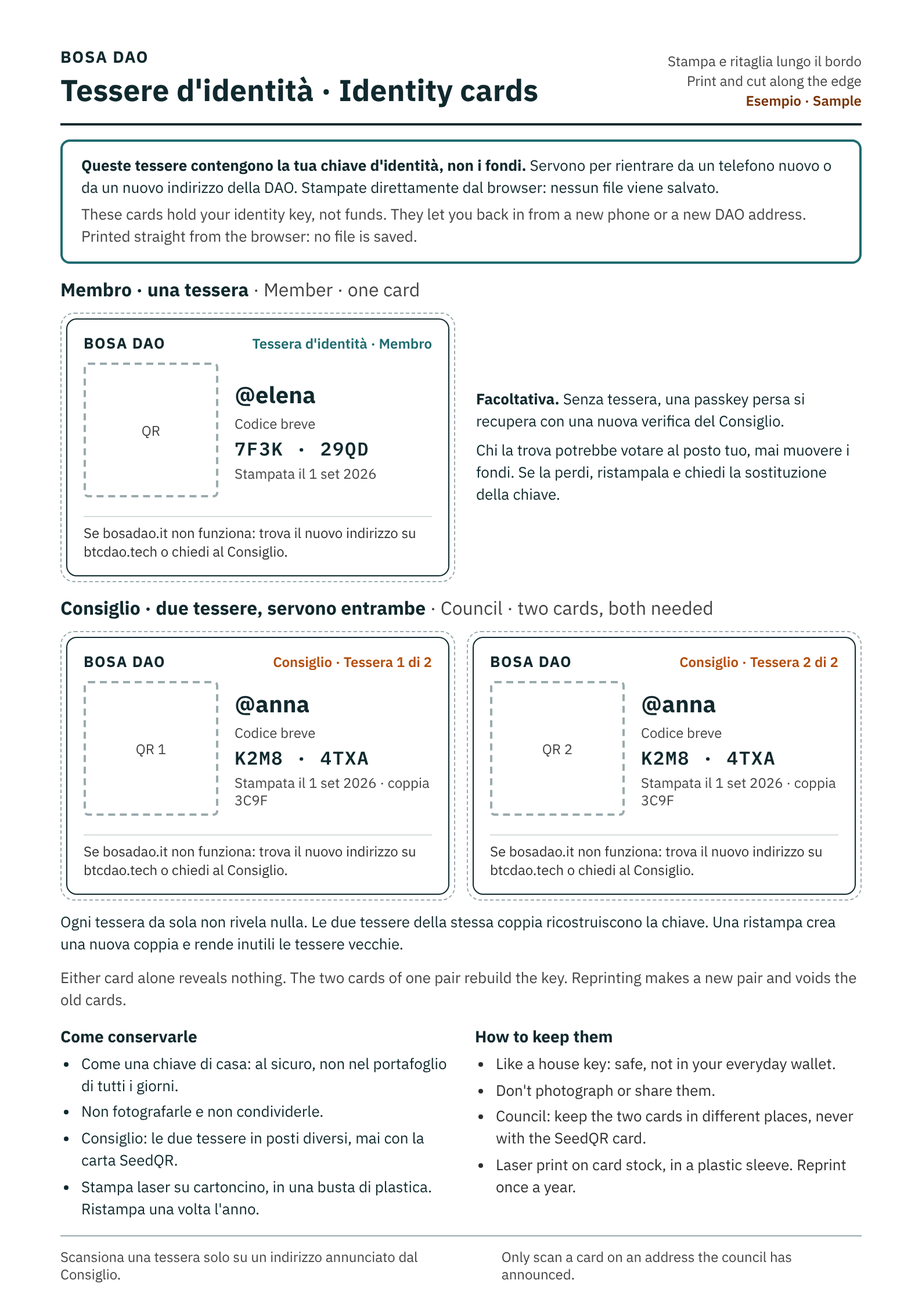
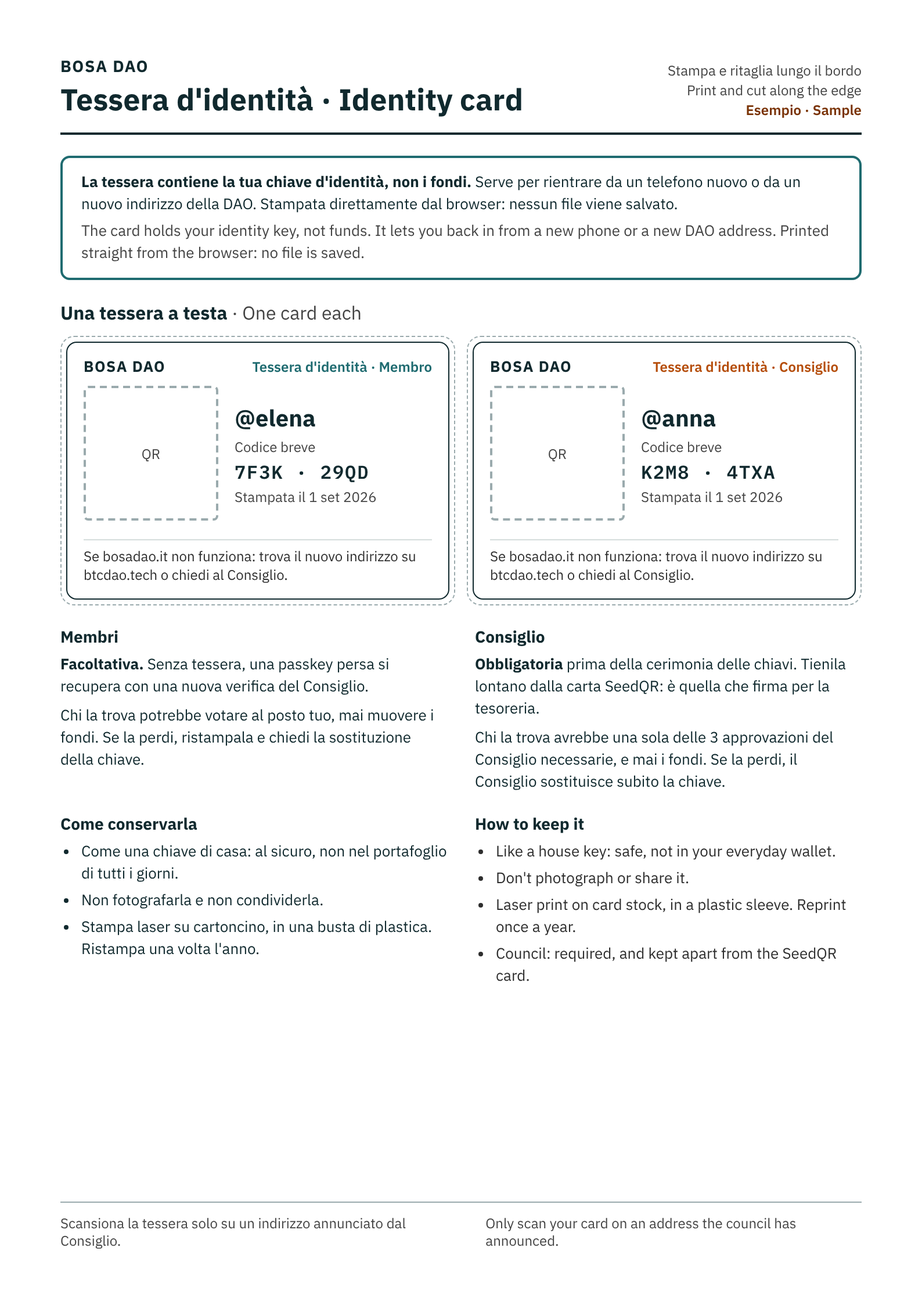
One identity card for everyone
Council members get the same single card as members, required before
the key ceremony and kept apart from the SeedQR card. The split
two-card scheme is dropped: one council identity key is only one of
the 3 approvals any change needs.

Claude-Session: https://claude.ai/code/session_01C94yzD6rPMBLcAmStF3yLe

diff --git a/design/mockups/IdentityCards.dc.html b/design/mockups/IdentityCards.dc.html
@@ -15,12 +15,12 @@ body{margin:0;background:#FFFFFF}
 a{color:#1F6B70}a:hover{color:#10292E}
 </style>
 </helmet>
-<div style="width: 794px; height: 1123px; box-sizing: border-box; padding: 40px 52px; background: #FFFFFF; font-family: 'IBM Plex Sans', system-ui, sans-serif; color: #10292E; display: flex; flex-direction: column; gap: 12px">
+<div style="width: 794px; height: 1123px; box-sizing: border-box; padding: 48px 52px; background: #FFFFFF; font-family: 'IBM Plex Sans', system-ui, sans-serif; color: #10292E; display: flex; flex-direction: column; gap: 18px">
 
 <div style="display: flex; justify-content: space-between; align-items: flex-end; gap: 24px; border-bottom: 2px solid #10292E; padding-bottom: 12px">
 <div style="display: flex; flex-direction: column; gap: 2px">
 <span style="font-size: 14px; font-weight: 700; letter-spacing: 0.06em">BOSA DAO</span>
-<h1 style="margin: 0; font-size: 26px; font-weight: 700">Tessere d'identità · Identity cards</h1>
+<h1 style="margin: 0; font-size: 26px; font-weight: 700">Tessera d'identità · Identity card</h1>
 </div>
 <div style="display: flex; flex-direction: column; align-items: flex-end; gap: 2px; font-size: 12px; color: #444444">
 <span>Stampa e ritaglia lungo il bordo</span>
@@ -30,14 +30,13 @@ a{color:#1F6B70}a:hover{color:#10292E}
 </div>
 
 <div style="border: 2px solid #1F6B70; border-radius: 8px; padding: 12px 16px; display: flex; flex-direction: column; gap: 4px; font-size: 13px; line-height: 1.45">
-<span><strong>Queste tessere contengono la tua chiave d'identità, non i fondi.</strong> Servono per rientrare da un telefono nuovo o da un nuovo indirizzo della DAO. Stampate direttamente dal browser: nessun file viene salvato.</span>
-<span style="color: #444444">These cards hold your identity key, not funds. They let you back in from a new phone or a new DAO address. Printed straight from the browser: no file is saved.</span>
+<span><strong>La tessera contiene la tua chiave d'identità, non i fondi.</strong> Serve per rientrare da un telefono nuovo o da un nuovo indirizzo della DAO. Stampata direttamente dal browser: nessun file viene salvato.</span>
+<span style="color: #444444">The card holds your identity key, not funds. It lets you back in from a new phone or a new DAO address. Printed straight from the browser: no file is saved.</span>
 </div>
 
-<section aria-labelledby="membro" style="display: flex; flex-direction: column; gap: 10px">
-<h2 id="membro" style="margin: 0; font-size: 16px; font-weight: 700">Membro · una tessera <span style="font-weight: 400; color: #444444">· Member · one card</span></h2>
-<div style="display: flex; gap: 10px; align-items: stretch">
-
+<section aria-labelledby="esempi" style="display: flex; flex-direction: column; gap: 10px">
+<h2 id="esempi" style="margin: 0; font-size: 16px; font-weight: 700">Una tessera a testa <span style="font-weight: 400; color: #444444">· One card each</span></h2>
+<div style="display: flex; gap: 10px">
 <div style="width: 340px; height: 232px; box-sizing: border-box; border: 1.5px dashed #9AAAAD; border-radius: 12px; padding: 4px; flex-shrink: 0">
 <div style="height: 100%; box-sizing: border-box; border: 1.5px solid #10292E; border-radius: 9px; padding: 12px 14px; display: flex; flex-direction: column; gap: 8px">
 <div style="display: flex; justify-content: space-between; align-items: baseline; gap: 8px">
@@ -45,7 +44,7 @@ a{color:#1F6B70}a:hover{color:#10292E}
 <span style="font-size: 12px; font-weight: 600; color: #1F6B70">Tessera d'identità · Membro</span>
 </div>
 <div style="display: flex; gap: 14px; align-items: center">
-<div role="img" aria-label="Codice QR della chiave d'identità (segnaposto)" style="width: 112px; height: 112px; flex-shrink: 0; border: 2px dashed #9AAAAD; border-radius: 4px; display: flex; align-items: center; justify-content: center; font-size: 12px; color: #444444">QR</div>
+<div role="img" aria-label="Codice QR della chiave d'identità di un membro (segnaposto)" style="width: 112px; height: 112px; flex-shrink: 0; border: 2px dashed #9AAAAD; border-radius: 4px; display: flex; align-items: center; justify-content: center; font-size: 12px; color: #444444">QR</div>
 <div style="display: flex; flex-direction: column; gap: 4px; min-width: 0">
 <span style="font-size: 20px; font-weight: 700">@elena</span>
 <span style="font-size: 12px; color: #444444">Codice breve</span>
@@ -56,86 +55,63 @@ a{color:#1F6B70}a:hover{color:#10292E}
 <span style="margin-top: auto; border-top: 1px solid #D5DDDC; padding-top: 6px; font-size: 12px; line-height: 1.35; color: #2E2E2E">Se bosadao.it non funziona: trova il nuovo indirizzo su btcdao.tech o chiedi al Consiglio.</span>
 </div>
 </div>
-
-<div style="flex: 1; display: flex; flex-direction: column; justify-content: center; gap: 6px; padding: 0 8px; font-size: 13px; line-height: 1.45">
-<span><strong>Facoltativa.</strong> Senza tessera, una passkey persa si recupera con una nuova verifica del Consiglio.</span>
-<span>Chi la trova potrebbe votare al posto tuo, mai muovere i fondi. Se la perdi, ristampala e chiedi la sostituzione della chiave.</span>
-</div>
-
-</div>
-</section>
-
-<section aria-labelledby="consiglio" style="display: flex; flex-direction: column; gap: 10px">
-<h2 id="consiglio" style="margin: 0; font-size: 16px; font-weight: 700">Consiglio · due tessere, servono entrambe <span style="font-weight: 400; color: #444444">· Council · two cards, both needed</span></h2>
-<div style="display: flex; gap: 10px">
-
 <div style="width: 340px; height: 232px; box-sizing: border-box; border: 1.5px dashed #9AAAAD; border-radius: 12px; padding: 4px; flex-shrink: 0">
 <div style="height: 100%; box-sizing: border-box; border: 1.5px solid #10292E; border-radius: 9px; padding: 12px 14px; display: flex; flex-direction: column; gap: 8px">
 <div style="display: flex; justify-content: space-between; align-items: baseline; gap: 8px">
 <span style="font-size: 13px; font-weight: 700; letter-spacing: 0.06em">BOSA DAO</span>
-<span style="font-size: 12px; font-weight: 600; color: #B54D0A">Consiglio · Tessera 1 di 2</span>
+<span style="font-size: 12px; font-weight: 600; color: #B54D0A">Tessera d'identità · Consiglio</span>
 </div>
 <div style="display: flex; gap: 14px; align-items: center">
-<div role="img" aria-label="Codice QR, prima metà della chiave (segnaposto)" style="width: 112px; height: 112px; flex-shrink: 0; border: 2px dashed #9AAAAD; border-radius: 4px; display: flex; align-items: center; justify-content: center; font-size: 12px; color: #444444">QR 1</div>
+<div role="img" aria-label="Codice QR della chiave d'identità di un membro del Consiglio (segnaposto)" style="width: 112px; height: 112px; flex-shrink: 0; border: 2px dashed #9AAAAD; border-radius: 4px; display: flex; align-items: center; justify-content: center; font-size: 12px; color: #444444">QR</div>
 <div style="display: flex; flex-direction: column; gap: 4px; min-width: 0">
 <span style="font-size: 20px; font-weight: 700">@anna</span>
 <span style="font-size: 12px; color: #444444">Codice breve</span>
 <span style="font-family: 'IBM Plex Mono', monospace; font-size: 16px; font-weight: 600; letter-spacing: 0.06em">K2M8 · 4TXA</span>
-<span style="font-size: 12px; color: #444444">Stampata il 1 set 2026 · coppia 3C9F</span>
+<span style="font-size: 12px; color: #444444">Stampata il 1 set 2026</span>
 </div>
 </div>
 <span style="margin-top: auto; border-top: 1px solid #D5DDDC; padding-top: 6px; font-size: 12px; line-height: 1.35; color: #2E2E2E">Se bosadao.it non funziona: trova il nuovo indirizzo su btcdao.tech o chiedi al Consiglio.</span>
 </div>
 </div>
-
-<div style="width: 340px; height: 232px; box-sizing: border-box; border: 1.5px dashed #9AAAAD; border-radius: 12px; padding: 4px; flex-shrink: 0">
-<div style="height: 100%; box-sizing: border-box; border: 1.5px solid #10292E; border-radius: 9px; padding: 12px 14px; display: flex; flex-direction: column; gap: 8px">
-<div style="display: flex; justify-content: space-between; align-items: baseline; gap: 8px">
-<span style="font-size: 13px; font-weight: 700; letter-spacing: 0.06em">BOSA DAO</span>
-<span style="font-size: 12px; font-weight: 600; color: #B54D0A">Consiglio · Tessera 2 di 2</span>
 </div>
-<div style="display: flex; gap: 14px; align-items: center">
-<div role="img" aria-label="Codice QR, seconda metà della chiave (segnaposto)" style="width: 112px; height: 112px; flex-shrink: 0; border: 2px dashed #9AAAAD; border-radius: 4px; display: flex; align-items: center; justify-content: center; font-size: 12px; color: #444444">QR 2</div>
-<div style="display: flex; flex-direction: column; gap: 4px; min-width: 0">
-<span style="font-size: 20px; font-weight: 700">@anna</span>
-<span style="font-size: 12px; color: #444444">Codice breve</span>
-<span style="font-family: 'IBM Plex Mono', monospace; font-size: 16px; font-weight: 600; letter-spacing: 0.06em">K2M8 · 4TXA</span>
-<span style="font-size: 12px; color: #444444">Stampata il 1 set 2026 · coppia 3C9F</span>
-</div>
-</div>
-<span style="margin-top: auto; border-top: 1px solid #D5DDDC; padding-top: 6px; font-size: 12px; line-height: 1.35; color: #2E2E2E">Se bosadao.it non funziona: trova il nuovo indirizzo su btcdao.tech o chiedi al Consiglio.</span>
-</div>
-</div>
-
-</div>
-<span style="font-size: 13px; line-height: 1.45">Ogni tessera da sola non rivela nulla. Le due tessere della stessa coppia ricostruiscono la chiave. Una ristampa crea una nuova coppia e rende inutili le tessere vecchie.</span>
-<span style="font-size: 13px; line-height: 1.45; color: #444444">Either card alone reveals nothing. The two cards of one pair rebuild the key. Reprinting makes a new pair and voids the old cards.</span>
 </section>
 
 <div style="display: grid; grid-template-columns: repeat(2, minmax(0, 1fr)); gap: 24px">
 <div style="display: flex; flex-direction: column; gap: 6px">
-<span style="font-size: 14px; font-weight: 700">Come conservarle</span>
+<span style="font-size: 14px; font-weight: 700">Membri</span>
+<span style="font-size: 13px; line-height: 1.45"><strong>Facoltativa.</strong> Senza tessera, una passkey persa si recupera con una nuova verifica del Consiglio.</span>
+<span style="font-size: 13px; line-height: 1.45">Chi la trova potrebbe votare al posto tuo, mai muovere i fondi. Se la perdi, ristampala e chiedi la sostituzione della chiave.</span>
+</div>
+<div style="display: flex; flex-direction: column; gap: 6px">
+<span style="font-size: 14px; font-weight: 700">Consiglio</span>
+<span style="font-size: 13px; line-height: 1.45"><strong>Obbligatoria</strong> prima della cerimonia delle chiavi. Tienila lontano dalla carta SeedQR: è quella che firma per la tesoreria.</span>
+<span style="font-size: 13px; line-height: 1.45">Chi la trova avrebbe una sola delle 3 approvazioni del Consiglio necessarie, e mai i fondi. Se la perdi, il Consiglio sostituisce subito la chiave.</span>
+</div>
+</div>
+
+<div style="display: grid; grid-template-columns: repeat(2, minmax(0, 1fr)); gap: 24px">
+<div style="display: flex; flex-direction: column; gap: 6px">
+<span style="font-size: 14px; font-weight: 700">Come conservarla</span>
 <ul style="margin: 0; padding-left: 18px; display: flex; flex-direction: column; gap: 4px; font-size: 13px; line-height: 1.45">
 <li>Come una chiave di casa: al sicuro, non nel portafoglio di tutti i giorni.</li>
-<li>Non fotografarle e non condividerle.</li>
-<li>Consiglio: le due tessere in posti diversi, mai con la carta SeedQR.</li>
+<li>Non fotografarla e non condividerla.</li>
 <li>Stampa laser su cartoncino, in una busta di plastica. Ristampa una volta l'anno.</li>
 </ul>
 </div>
 <div style="display: flex; flex-direction: column; gap: 6px">
-<span style="font-size: 14px; font-weight: 700">How to keep them</span>
+<span style="font-size: 14px; font-weight: 700">How to keep it</span>
 <ul style="margin: 0; padding-left: 18px; display: flex; flex-direction: column; gap: 4px; font-size: 13px; line-height: 1.45; color: #2E2E2E">
 <li>Like a house key: safe, not in your everyday wallet.</li>
-<li>Don't photograph or share them.</li>
-<li>Council: keep the two cards in different places, never with the SeedQR card.</li>
+<li>Don't photograph or share it.</li>
 <li>Laser print on card stock, in a plastic sleeve. Reprint once a year.</li>
+<li>Council: required, and kept apart from the SeedQR card.</li>
 </ul>
 </div>
 </div>
 
 <div style="margin-top: auto; border-top: 1px solid #9AAAAD; padding-top: 10px; display: flex; justify-content: space-between; gap: 24px; font-size: 12px; color: #444444">
-<span>Scansiona una tessera solo su un indirizzo annunciato dal Consiglio.</span>
-<span>Only scan a card on an address the council has announced.</span>
+<span>Scansiona la tessera solo su un indirizzo annunciato dal Consiglio.</span>
+<span>Only scan your card on an address the council has announced.</span>
 </div>
 
 </div>

diff --git a/design/mockups/Restore.dc.html b/design/mockups/Restore.dc.html
@@ -39,11 +39,6 @@ a{color:#1F6B70}a:hover{color:#10292E}
 
 <div style="background: #FCEBDD; border-radius: 12px; padding: 14px 16px; font-size: 14px; line-height: 1.5; color: #7A3306"><strong>Scansiona la tessera solo su un indirizzo annunciato dal Consiglio.</strong> Nel dubbio, controlla su btcdao.tech o chiedi a un membro del Consiglio.</div>
 
-<label style="min-height: 44px; display: flex; align-items: center; gap: 10px; font-size: 15px; line-height: 1.4">
-<input type="checkbox" checked="{{council}}" onChange="{{toggleCouncil}}" style="width: 22px; height: 22px; flex-shrink: 0; accent-color: #1F6B70">
-Faccio parte del Consiglio: ho due tessere
-</label>
-
 <button type="button" onClick="{{goScan}}" style="min-height: 52px; background: #B54D0A; color: #FFFFFF; border: 0; border-radius: 8px; font-family: inherit; font-size: 16px; font-weight: 600">Scansiona la tessera</button>
 <span style="font-size: 13px; line-height: 1.5; color: #4A5D61">Senza tessera? Vieni a un incontro: un membro del Consiglio verifica che sei tu e sostituisce la chiave.</span>
 </div>
@@ -51,17 +46,11 @@ Faccio parte del Consiglio: ho due tessere
 
 <sc-if value="{{isScan}}" hint-placeholder-val="{{ false }}">
 <div style="display: flex; flex-direction: column; gap: 16px; align-items: center">
-<sc-if value="{{council}}" hint-placeholder-val="{{ false }}">
-<span style="align-self: stretch; font-size: 13px; color: #4A5D61">Tessera {{cardNum}} di 2</span>
-</sc-if>
-<h1 style="margin: 0; align-self: stretch; font-size: 24px; font-weight: 700">{{scanTitle}}</h1>
+<h1 style="margin: 0; align-self: stretch; font-size: 24px; font-weight: 700">Inquadra la tessera</h1>
 <div role="img" aria-label="Anteprima della fotocamera con la cornice per la tessera (segnaposto)" style="width: 300px; height: 300px; background: #10292E; border-radius: 12px; display: flex; align-items: center; justify-content: center">
 <div style="width: 180px; height: 180px; border: 3px solid #FFFFFF; border-radius: 8px; display: flex; align-items: center; justify-content: center; text-align: center; font-size: 13px; color: #C5D3D4">Inquadra qui<br>il codice QR</div>
 </div>
 <span style="align-self: stretch; font-size: 14px; line-height: 1.5; color: #2E4448">Tieni la tessera ferma e ben illuminata. Nessuna foto viene salvata.</span>
-<sc-if value="{{showSecondNote}}" hint-placeholder-val="{{ false }}">
-<div style="align-self: stretch; background: #E3F0F0; border-radius: 12px; padding: 12px 14px; font-size: 14px; line-height: 1.5; color: #1F4F53">Tessera 1 di 2 letta ✓ Da sola non rivela nulla: ora serve la seconda.</div>
-</sc-if>
 <button type="button" onClick="{{scanned}}" style="align-self: stretch; min-height: 52px; background: #B54D0A; color: #FFFFFF; border: 0; border-radius: 8px; font-family: inherit; font-size: 16px; font-weight: 600">Simula: tessera letta</button>
 <button type="button" onClick="{{goAddress}}" style="align-self: stretch; min-height: 44px; background: transparent; color: #10292E; border: 1px solid #9AAAAD; border-radius: 8px; font-family: inherit; font-size: 14px; font-weight: 600">Annulla</button>
 </div>
@@ -71,10 +60,10 @@ Faccio parte del Consiglio: ho due tessere
 <div style="display: flex; flex-direction: column; gap: 16px">
 <h1 style="margin: 0; font-size: 24px; font-weight: 700">Sei tu?</h1>
 <section style="background: #FFFFFF; border: 1px solid #D5DDDC; border-radius: 12px; padding: 18px; display: flex; flex-direction: column; gap: 12px; align-items: center; text-align: center">
-<span aria-hidden="true" style="width: 56px; height: 56px; border-radius: 28px; background: #E3F0F0; display: flex; align-items: center; justify-content: center; font-size: 22px; font-weight: 700">{{initial}}</span>
+<span aria-hidden="true" style="width: 56px; height: 56px; border-radius: 28px; background: #E3F0F0; display: flex; align-items: center; justify-content: center; font-size: 22px; font-weight: 700">E</span>
 <strong style="font-size: 22px">{{name}}</strong>
-<span style="font-size: 14px; color: #4A5D61">{{role}}</span>
-<span style="font-family: 'IBM Plex Mono', monospace; font-size: 22px; font-weight: 600; letter-spacing: 0.08em">{{shortCode}}</span>
+<span style="font-size: 14px; color: #4A5D61">Membro dal 1 set</span>
+<span style="font-family: 'IBM Plex Mono', monospace; font-size: 22px; font-weight: 600; letter-spacing: 0.08em">7F3K · 29QD</span>
 <span style="font-size: 13px; line-height: 1.5; color: #4A5D61">Controlla che il codice breve coincida con quello stampato sulla tessera.</span>
 </section>
 <button type="button" onClick="{{goPasskey}}" style="min-height: 52px; background: #B54D0A; color: #FFFFFF; border: 0; border-radius: 8px; font-family: inherit; font-size: 16px; font-weight: 600">Sì, sono io</button>
@@ -109,26 +98,13 @@ Faccio parte del Consiglio: ho due tessere
 <script type="text/x-dc" data-dc-script data-props='{"$preview":{"width":390,"height":1100}}'>
 class Component extends DCLogic {
 renderVals() {
-const s = this.state || {};
-const step = s.step || 'address';
-const council = !!s.council;
-const card = s.card || 1;
-const go = (k) => () => this.setState({ step: k, card: 1 });
+const step = (this.state && this.state.step) || 'address';
+const go = (k) => () => this.setState({ step: k });
 return {
 isAddress: step === 'address', isScan: step === 'scan', isWho: step === 'who',
 isPasskey: step === 'passkey', isDone: step === 'done',
-council: council,
-cardNum: String(card),
-showSecondNote: council && card === 2,
-scanTitle: council ? (card === 1 ? 'Inquadra la tessera 1' : 'Ora la tessera 2') : 'Inquadra la tessera',
-name: council ? '@anna' : '@elena',
-initial: council ? 'A' : 'E',
-role: council ? 'Consiglio · membro dal 1 set' : 'Membro dal 1 set',
-shortCode: council ? 'K2M8 · 4TXA' : '7F3K · 29QD',
-toggleCouncil: () => this.setState({ council: !council }),
-scanned: () => {
-if (council && card === 1) { this.setState({ card: 2 }); } else { this.setState({ step: 'who', card: 1 }); }
-},
+name: '@elena',
+scanned: go('who'),
 goAddress: go('address'), goScan: go('scan'), goPasskey: go('passkey'), goDone: go('done')
 };
 }

diff --git a/design/mockups/Profile.dc.html b/design/mockups/Profile.dc.html
@@ -50,7 +50,7 @@ a{color:#1F6B70}a:hover{color:#10292E}
 <span style="font-size: 14px; line-height: 1.5; color: #2E4448">La tua chiave su carta. Con questa rientri da un telefono nuovo, o da un nuovo indirizzo di BOSA DAO, senza nuove verifiche.</span>
 <a href="IdentityCards.dc.html" style="min-height: 48px; display: flex; align-items: center; justify-content: center; background: #FFFFFF; color: #10292E; border: 1px solid #9AAAAD; border-radius: 8px; font-size: 15px; font-weight: 600; text-decoration: none">Stampa di nuovo</a>
 <span style="font-size: 13px; line-height: 1.5; color: #4A5D61">Hai perso la tessera? Stampane una nuova e chiedi al Consiglio di sostituire la chiave: chi la trova potrebbe votare al posto tuo, ma non muovere i fondi.</span>
-<span style="font-size: 13px; line-height: 1.5; color: #4A5D61">Nel Consiglio le tessere sono due e servono entrambe. Una ristampa rende inutili quelle vecchie.</span>
+<span style="font-size: 13px; line-height: 1.5; color: #4A5D61">Per il Consiglio la tessera è obbligatoria e va tenuta lontano dalla carta SeedQR.</span>
 </section>
 
 <section aria-labelledby="wallet" style="background: #FFFFFF; border: 1px solid #D5DDDC; border-radius: 12px; padding: 18px; display: flex; flex-direction: column; gap: 6px">

diff --git a/docs/spec.md b/docs/spec.md
@@ -69,7 +69,7 @@ Each person has an identity key for signing in and voting, and each council memb
 
 | Key | Holder | Used for | Lives in | If lost |
 | --- | --- | --- | --- | --- |
-| Identity key (Nostr) | Every member | Sign-in, proposals, votes, endorsements | Random key, encrypted by the member's passkey; backed up on printed identity cards (1 for members, 2 for council) | A synced passkey or the identity card(s) restore it on any device or address; otherwise key replacement after re-verification |
+| Identity key (Nostr) | Every member | Sign-in, proposals, votes, endorsements | Random key, encrypted by the member's passkey; backed up on a printed identity card | A synced passkey or the identity card(s) restore it on any device or address; otherwise key replacement after re-verification |
 | Treasury key | Each council member | Signing payout rounds and migrations | SeedQR card carried to signing; steel plate kept at home; loaded into the shared SeedSigner only while signing | Threshold still met; council migrates to a new multisig |
 
 Sign-in for members:
@@ -82,15 +82,15 @@ Sign-in for members:
 
 Every member can also hold their identity key on paper, so the DAO survives losing its domain or a member losing their passkey. There are no passwords and no files to keep.
 
-| Who | Cards | What each card holds | Needed to restore |
-| --- | --- | --- | --- |
-| Ordinary member | 1, optional | The identity key as a QR code | That card |
-| Council member | 2, required before the key ceremony | One random half of the identity key; either card alone reveals nothing | Both cards |
+| Who | Card | When |
+| --- | --- | --- |
+| Ordinary member | One card: the identity key as a QR code | Optional |
+| Council member | One card: the identity key as a QR code | Required before the key ceremony; kept apart from the SeedQR card |
 
-- **Printing:** from the member's profile page, straight from the browser to the printer. The card is never saved as a file or shared, so no digital copy is left behind. Every card also carries one fixed line: if bosadao.it stops working, find the new address at btcdao.tech or ask a council member. Each card also shows the DAO name, the member's pseudonym and short code, and for council "Card 1 of 2" or "Card 2 of 2".
-- **Keeping:** like a house key. Council members keep their two cards in different places, and neither with their SeedQR card.
-- **Restoring:** on a new phone, after losing a passkey, or at a new web address, the member scans their card (council: both), checks the short code shown, and creates a new passkey, which then protects the same key. Identity, roster and votes carry on, with no re-verification.
-- **Lost or exposed cards:** an ordinary member's card is their identity, so a finder could vote in their name until a key replacement; it can never move funds. A lost card is followed by a key replacement. One council card alone is useless: the member prints a fresh pair, which makes the remaining old card worthless too. If both council cards are exposed, the council replaces the key.
+- **Printing:** from the member's profile page, straight from the browser to the printer. The card is never saved as a file or shared, so no digital copy is left behind. Every card also carries one fixed line: if bosadao.it stops working, find the new address at btcdao.tech or ask a council member. Each card also shows the DAO name, the member's pseudonym and short code.
+- **Keeping:** like a house key. Council members keep theirs apart from their SeedQR card, which is the one that can sign for the treasury.
+- **Restoring:** on a new phone, after losing a passkey, or at a new web address, the member scans their card, checks the short code shown, and creates a new passkey, which then protects the same key. Identity, roster and votes carry on, with no re-verification.
+- **Lost or exposed cards:** an ordinary member's card is their identity, so a finder could vote in their name until a key replacement; it can never move funds. A lost card is followed by a key replacement. A council member's card gives a finder one of the 3 council approvals any change needs, and never funds; the council replaces that key at once.
 - **Members who skip the card** recover a lost passkey by key replacement.
 
 ### Moving to a new address
@@ -115,7 +115,7 @@ A new member joins in about two minutes at a meetup and writes nothing down; thr
 
 ### Rules for onboarding
 
-- **Nothing to write down**: the passkey protects the key day to day, and the backup is a printed identity card (two for council members).
+- **Nothing to write down**: the passkey protects the key day to day, and the backup is a printed identity card.
 - **Privacy consent is its own tick box:** the pseudonym and every vote are public and permanent. Real names are never required.
 - **Age:** members must be 18 or over, confirmed by tick box and stated in the charter.
 - **While waiting:** the done screen says voting opens after the 7-day vote and 3 council confirmations; the member sees their admission status at each sign-in.

diff --git a/docs/protocol.md b/docs/protocol.md
@@ -63,20 +63,13 @@ A key swapped in transit gives a different short code, which is the whole point 
 
 ### 1.7 Identity cards
 
-Identity cards are the member's paper backup of their identity key: one card for an ordinary member (optional), two for a council member (required before the key ceremony). There are no passwords. Cards are printed straight from the browser and never saved as files.
+An identity card is a member's paper backup of their identity key: one card each, optional for ordinary members and required for council members before the key ceremony. There are no passwords. Cards are printed straight from the browser and never saved as files.
 
-| Card | QR payload |
-| --- | --- |
-| Member card | `BTCDAO:1:M:<dao8>:<secret>` |
-| Council card 1 | `BTCDAO:1:C1:<dao8>:<share1>:<pair>` |
-| Council card 2 | `BTCDAO:1:C2:<dao8>:<share2>:<pair>` |
+- QR payload: `BTCDAO:1:<dao8>:<secret>`, where `dao8` is the first 8 hex characters of the DAO id and `secret` is the 64-character key. All hex is upper case, so the payload fits QR alphanumeric mode (version 4 or smaller, about 3 cm square in print).
+- The printed text beside the QR (never inside it) gives the DAO name, the member's pseudonym, their short code, "Council" for a council member, the print date, and a fixed fallback line naming where to find the DAO if its site stops working: the project dashboard and the council (for BOSA DAO: "If bosadao.it stops working, find the new address at btcdao.tech or ask a council member").
+- Council members keep the card apart from their SeedQR card. A council identity key gives one of the `threshold` endorsements any change needs and can never move funds, so one lost card is handled by a key replacement.
 
-- `dao8` is the first 8 hex characters of the DAO id; `secret`, `share1` and `share2` are 64 hex characters; `pair` is 8 random hex characters shared by both cards of one printing. All hex is upper case, so the payload fits QR alphanumeric mode (version 5 or smaller, about 3 cm square in print).
-- `share1` is 32 random bytes and `share2 = secret XOR share1`. Either share alone is uniformly random and reveals nothing about the key.
-- Reprinting council cards draws a new `share1` and `pair`, so an old card no longer combines with a new one, and the app rejects mismatched `pair` values at once.
-- The printed text beside the QR (never inside it) gives the DAO name, the member's pseudonym, their short code, the card label ("Card 1 of 2"), the print date, and a fixed fallback line naming where to find the DAO if its site stops working: the project dashboard and the council (for BOSA DAO: "If bosadao.it stops working, find the new address at btcdao.tech or ask a council member").
-
-Restoring: the app scans the card (council: both), rebuilds the secret, checks it is between 1 and n−1, derives the public key and shows its short code. It continues only if that key is on the current roster, or has a valid `dao.verify` for a candidate. It then registers a new passkey and publishes a `dao.keywrap` for it.
+Restoring: the app scans the card, checks the `dao8` prefix matches this DAO, checks the secret is between 1 and n−1, derives the public key and shows its short code. It continues only if that key is on the current roster, or has a valid `dao.verify` for a candidate. It then registers a new passkey and publishes a `dao.keywrap` for it.
 
 ## 2. Kinds
 

diff --git a/docs/decisions.md b/docs/decisions.md
@@ -10,7 +10,7 @@
 | Lightning | Not in v1. Later: payouts to Lightning by swap, then a capped Lightning "Purse" |
 | Roles | Members vote; council members hold treasury keys. Voting and signing rights are separated by keys, not only by policy |
 | Member identity | A random Nostr key, encrypted by the member's passkey (PRF) and kept in the browser and on the relays, so a synced passkey opens it on any device |
-| Identity cards | Paper backup of the identity key as QR codes, printed straight from the browser, no passwords, no files. Ordinary members: one card, optional. Council: two cards, each holding one random half of the key, both needed, required before the key ceremony |
+| Identity cards | Paper backup of the identity key as one QR card each, printed straight from the browser, no passwords, no files. Optional for ordinary members; required for council members before the key ceremony, kept apart from their SeedQR card. Two split cards for the council were considered and dropped: one council identity key is only one of the 3 approvals any change needs |
 | Moving address | If the domain is lost, the council endorses a new address in a `dao.listing`; members scan their cards there and make a new passkey. Same identities, no re-verification. Members find the new address on btcdao.tech (a separate domain) or from the council; every card carries that fallback line. The DAO relay on the lost domain is replaced, and public relays bridge the gap |
 | Signing (BOSA trial) | One shared SeedSigner plus a spare; each council member has their own verified SD card, a 12-word CompactSeedQR card (21x21) and a steel plate at home. No passphrase in the trial |
 | Addresses | Shown as SeedSigner shows them: first 7 and last 7 characters highlighted, middle in full; compared in full |

diff --git a/design/README.md b/design/README.md
@@ -42,7 +42,7 @@ To regenerate the PNGs after changing a screen, see `tools/render-mockups/`.
 
 ![Recovery sheet](screens/RecoverySheet.png)
 
-**Identity cards** (printable A4: one card for a member, two for a council member)
+**Identity card** (printable A4: one card each, members and council)
 
 ![Identity cards](screens/IdentityCards.png)
 
